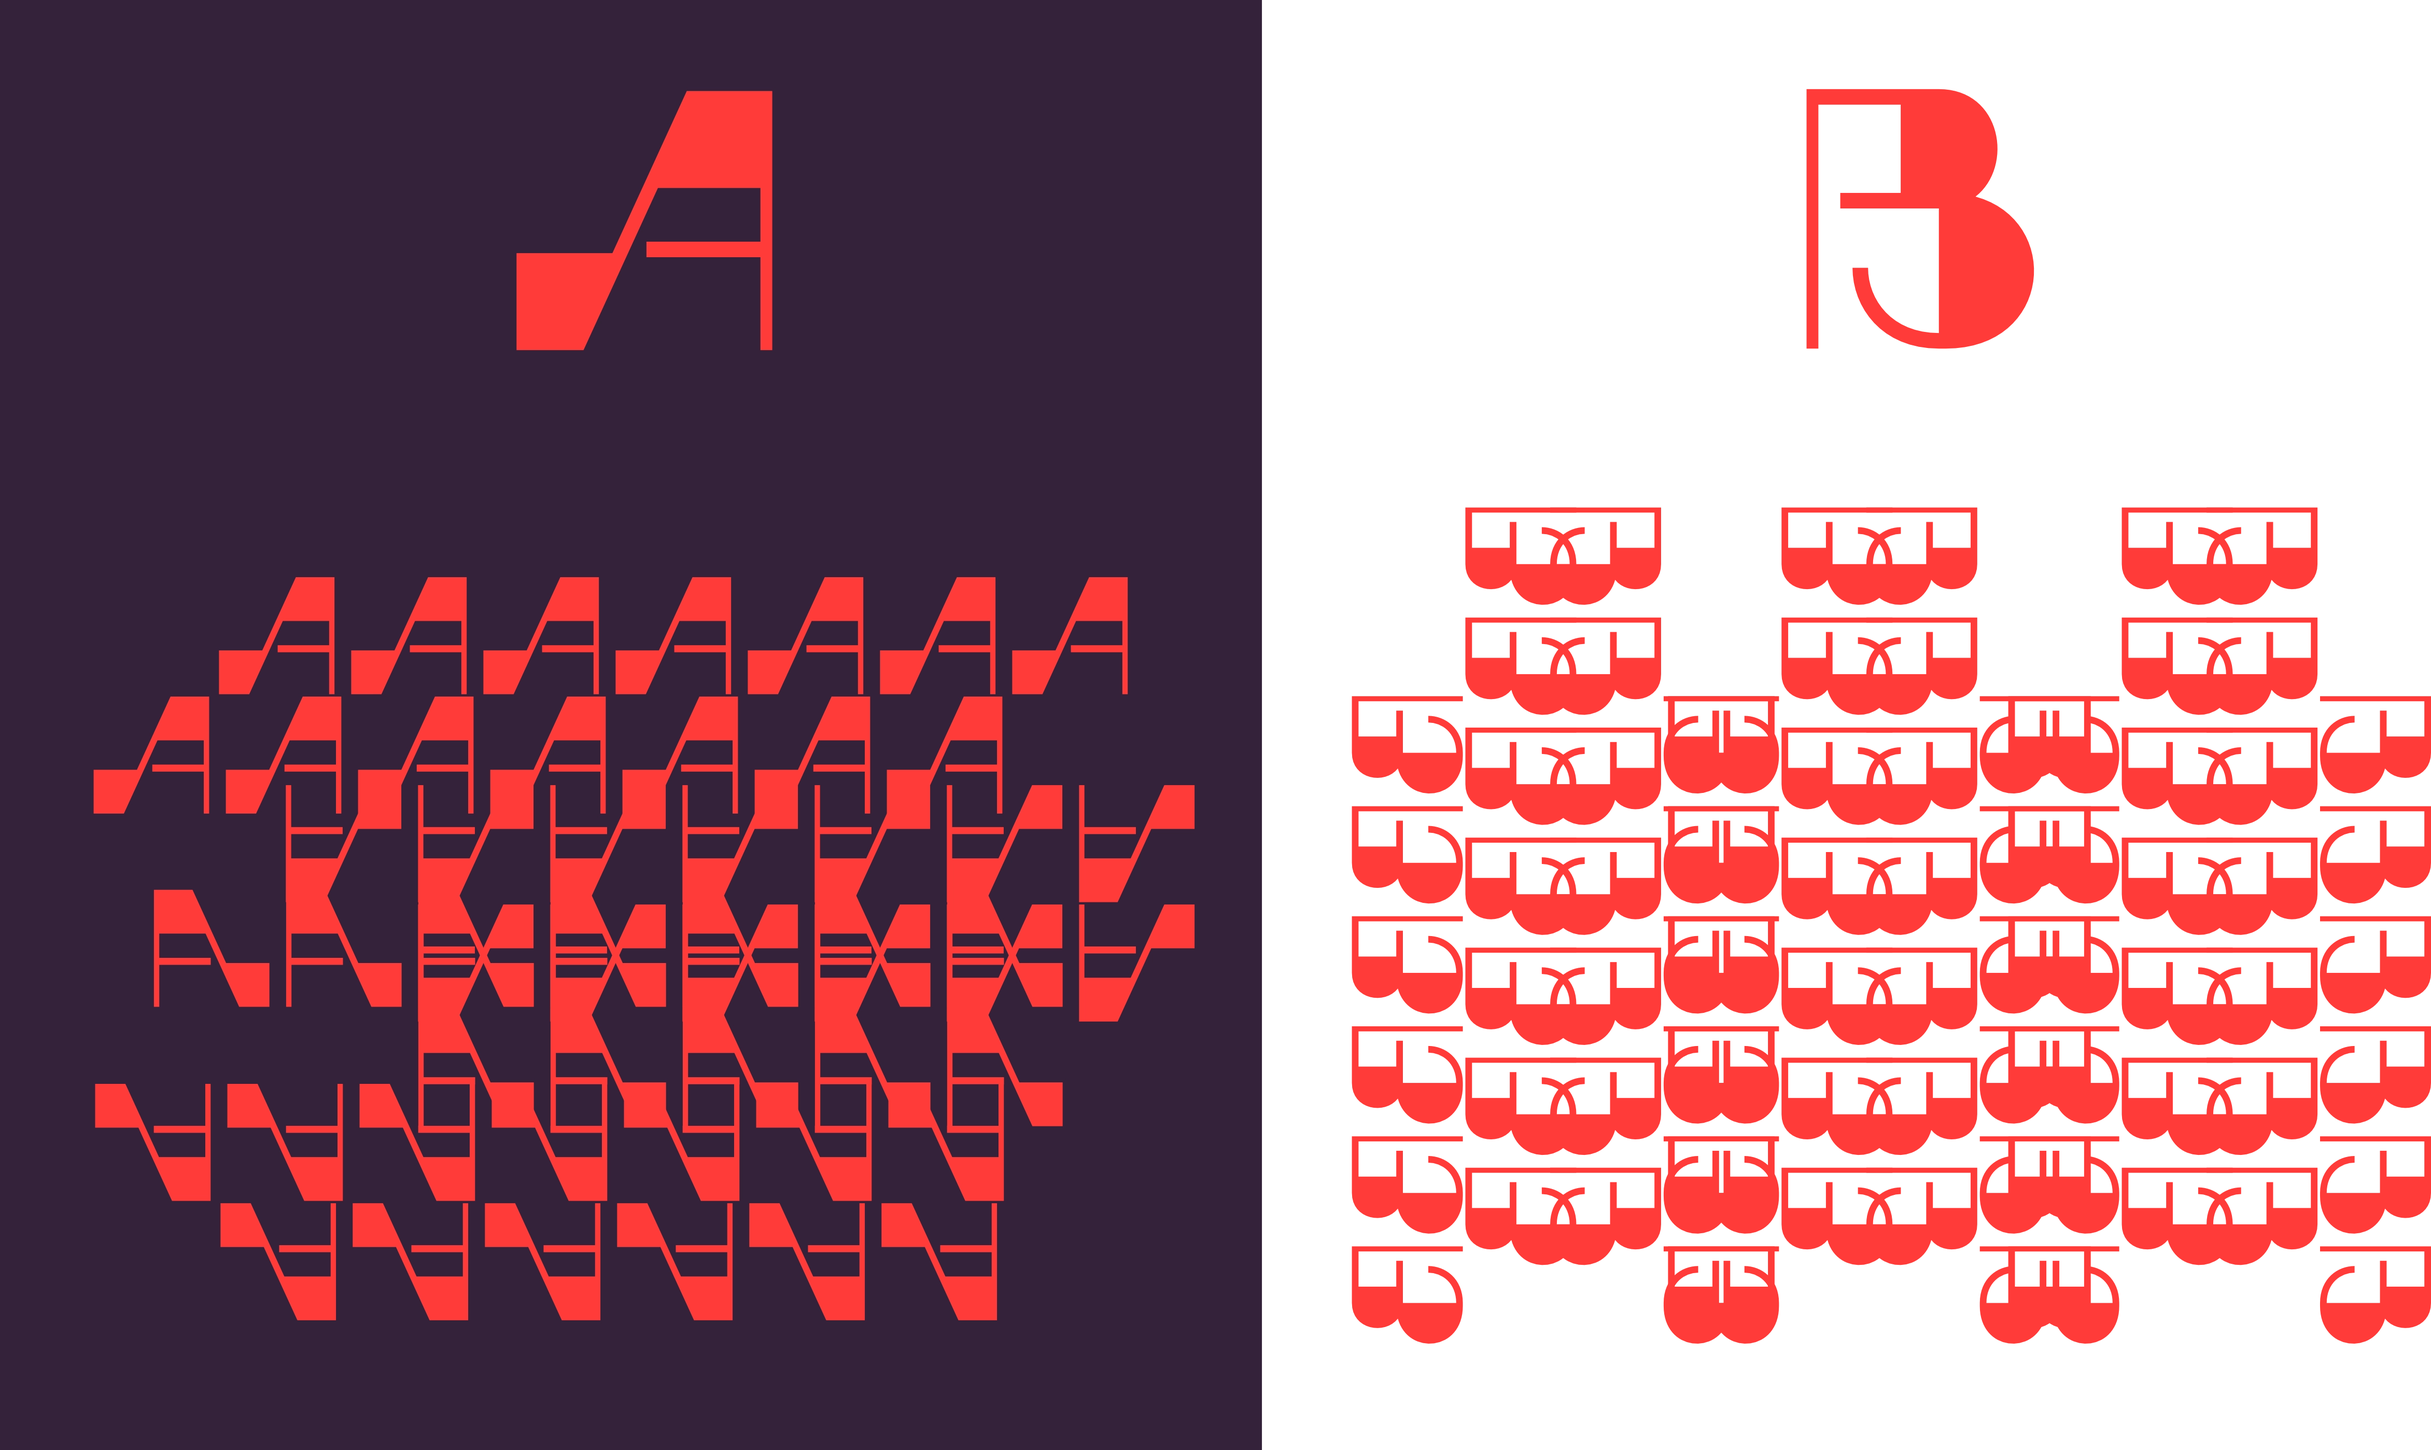
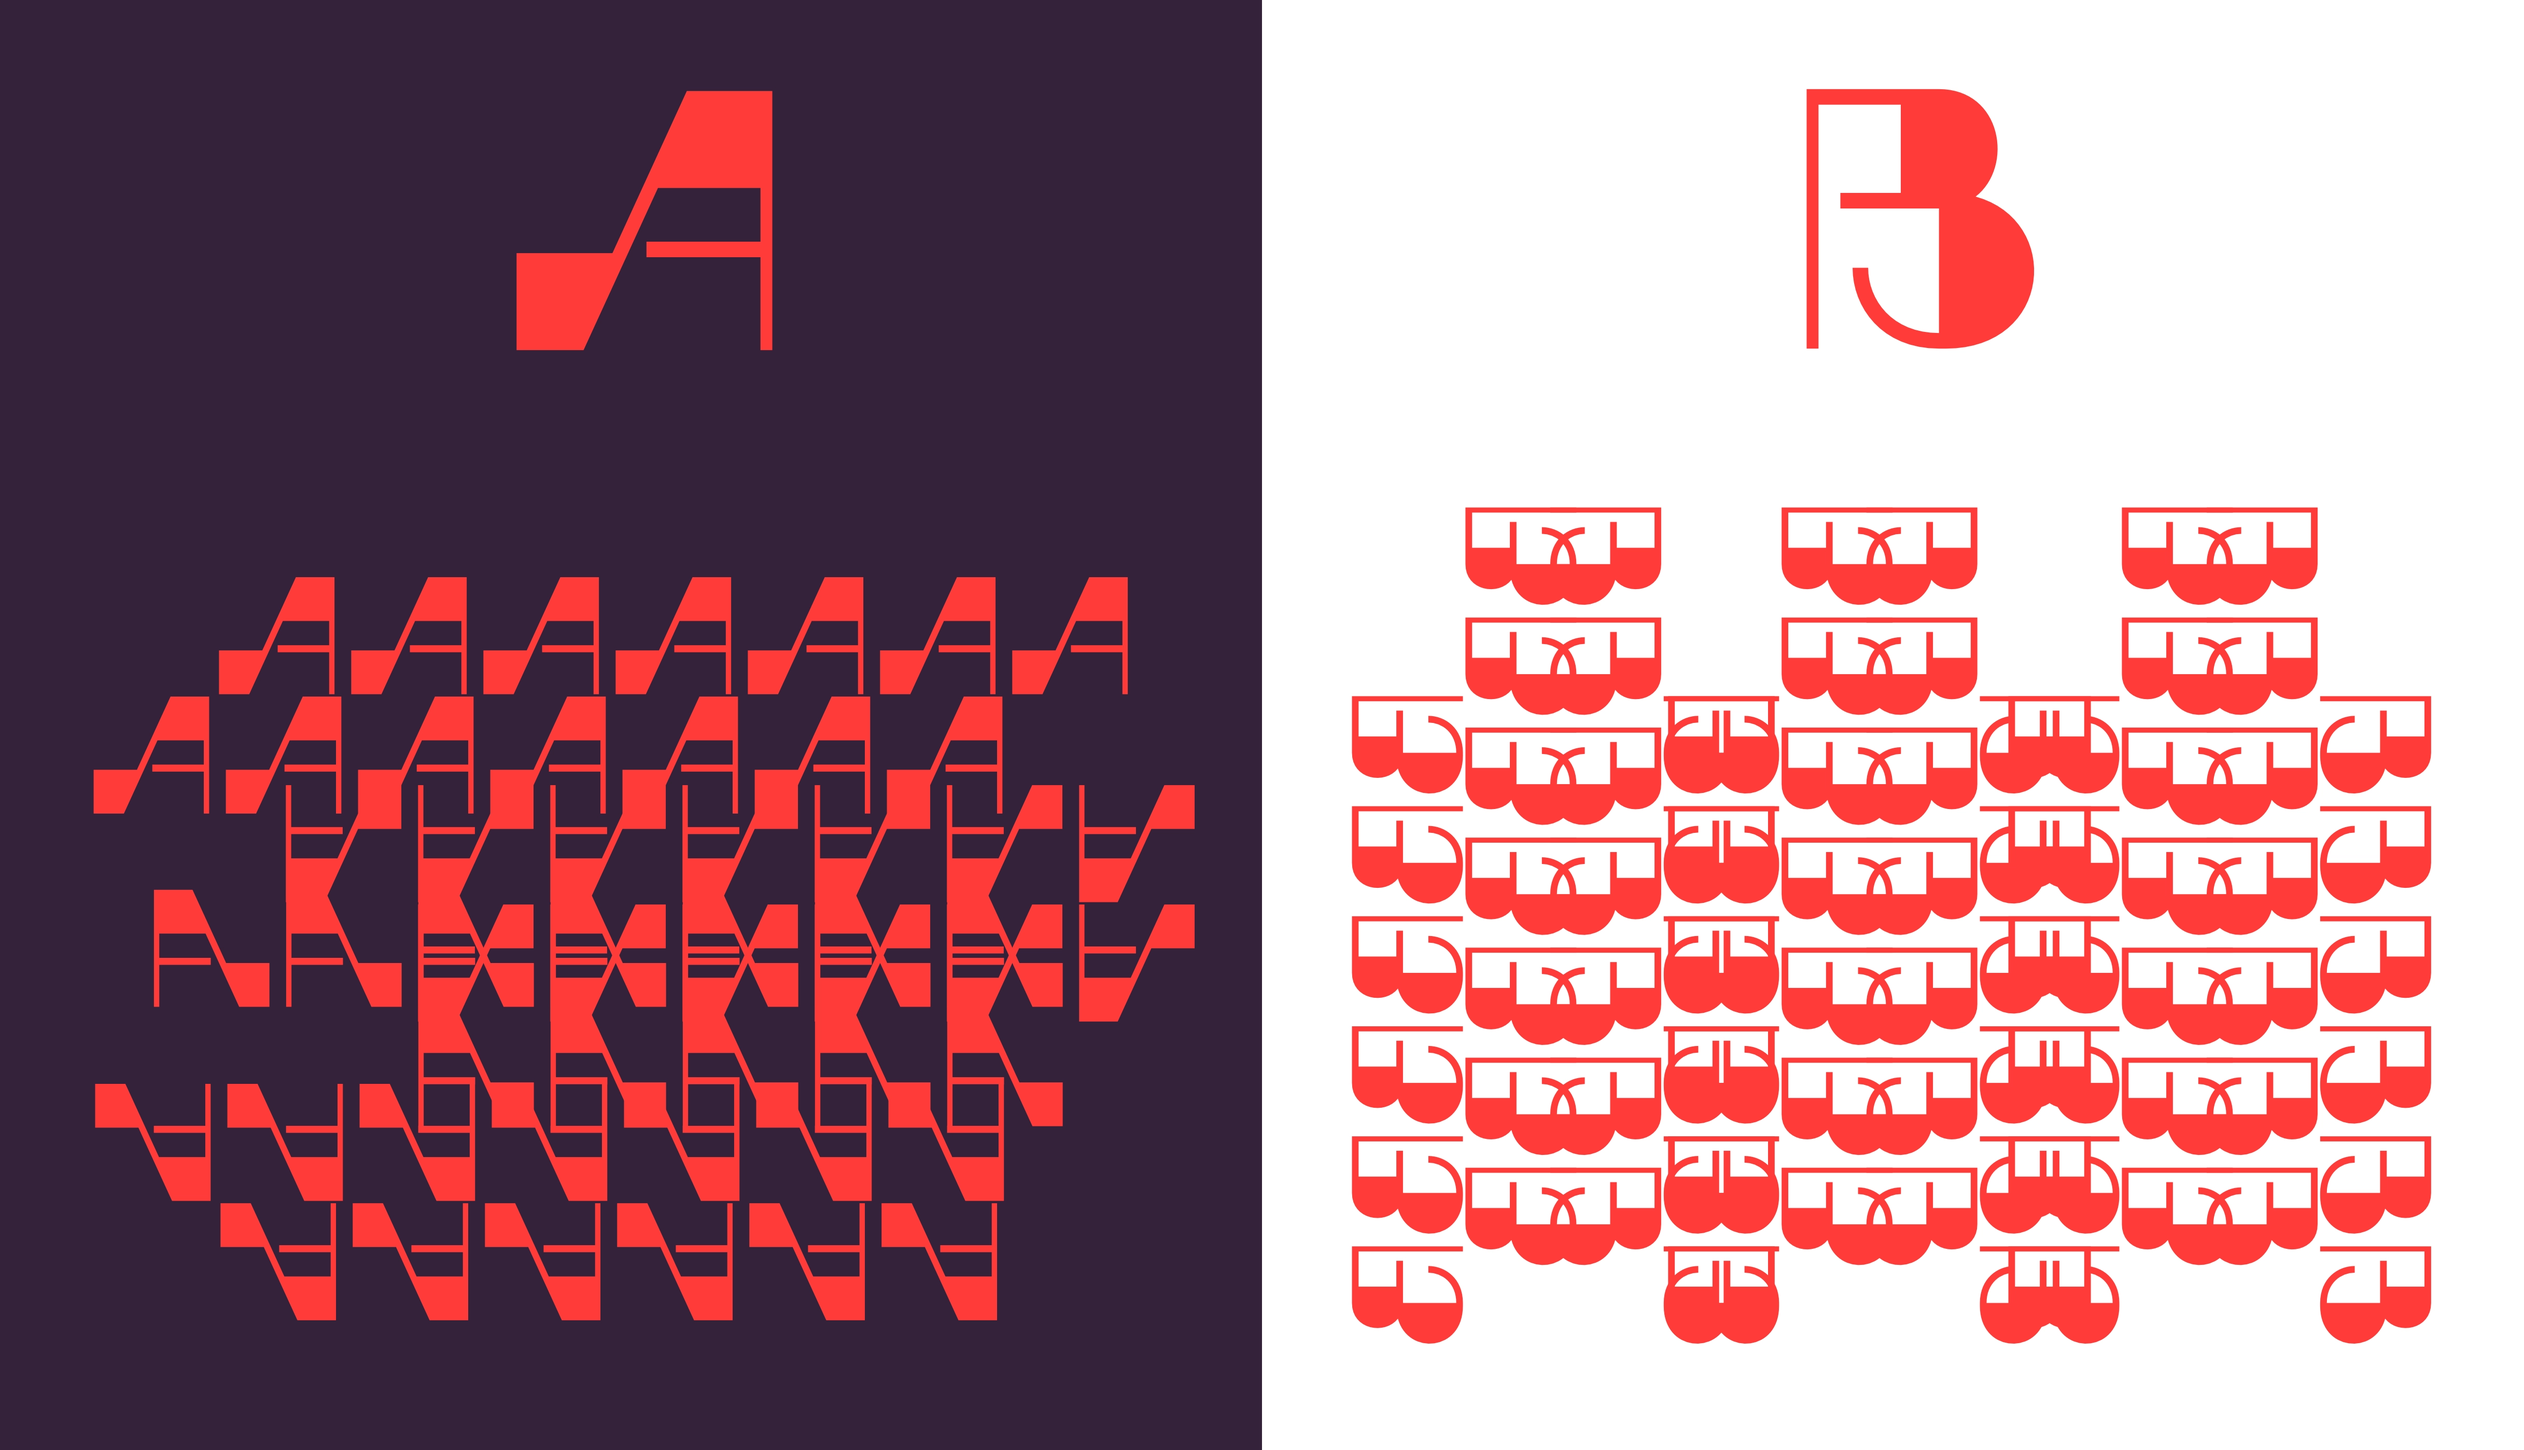
nuove foto

Changed region(s): [[0.0311, 0.0, 1.0, 1.0], [0.7161, 0.0622, 0.8407, 0.2489], [0.1868, 0.0622, 0.3425, 0.2489]]

diff --git a/hugonoff.html b/hugonoff.html
@@ -151,7 +151,7 @@
         </div>
         <div class="trial-slide">
           <img
-            src="../cdn.prod.website-files.com/hugonoff-assets/hugo_04.png"
+            src="../cdn.prod.website-files.com/hugonoff-assets/hugo_04.webp"
             draggable="false"
             alt=""
           />
